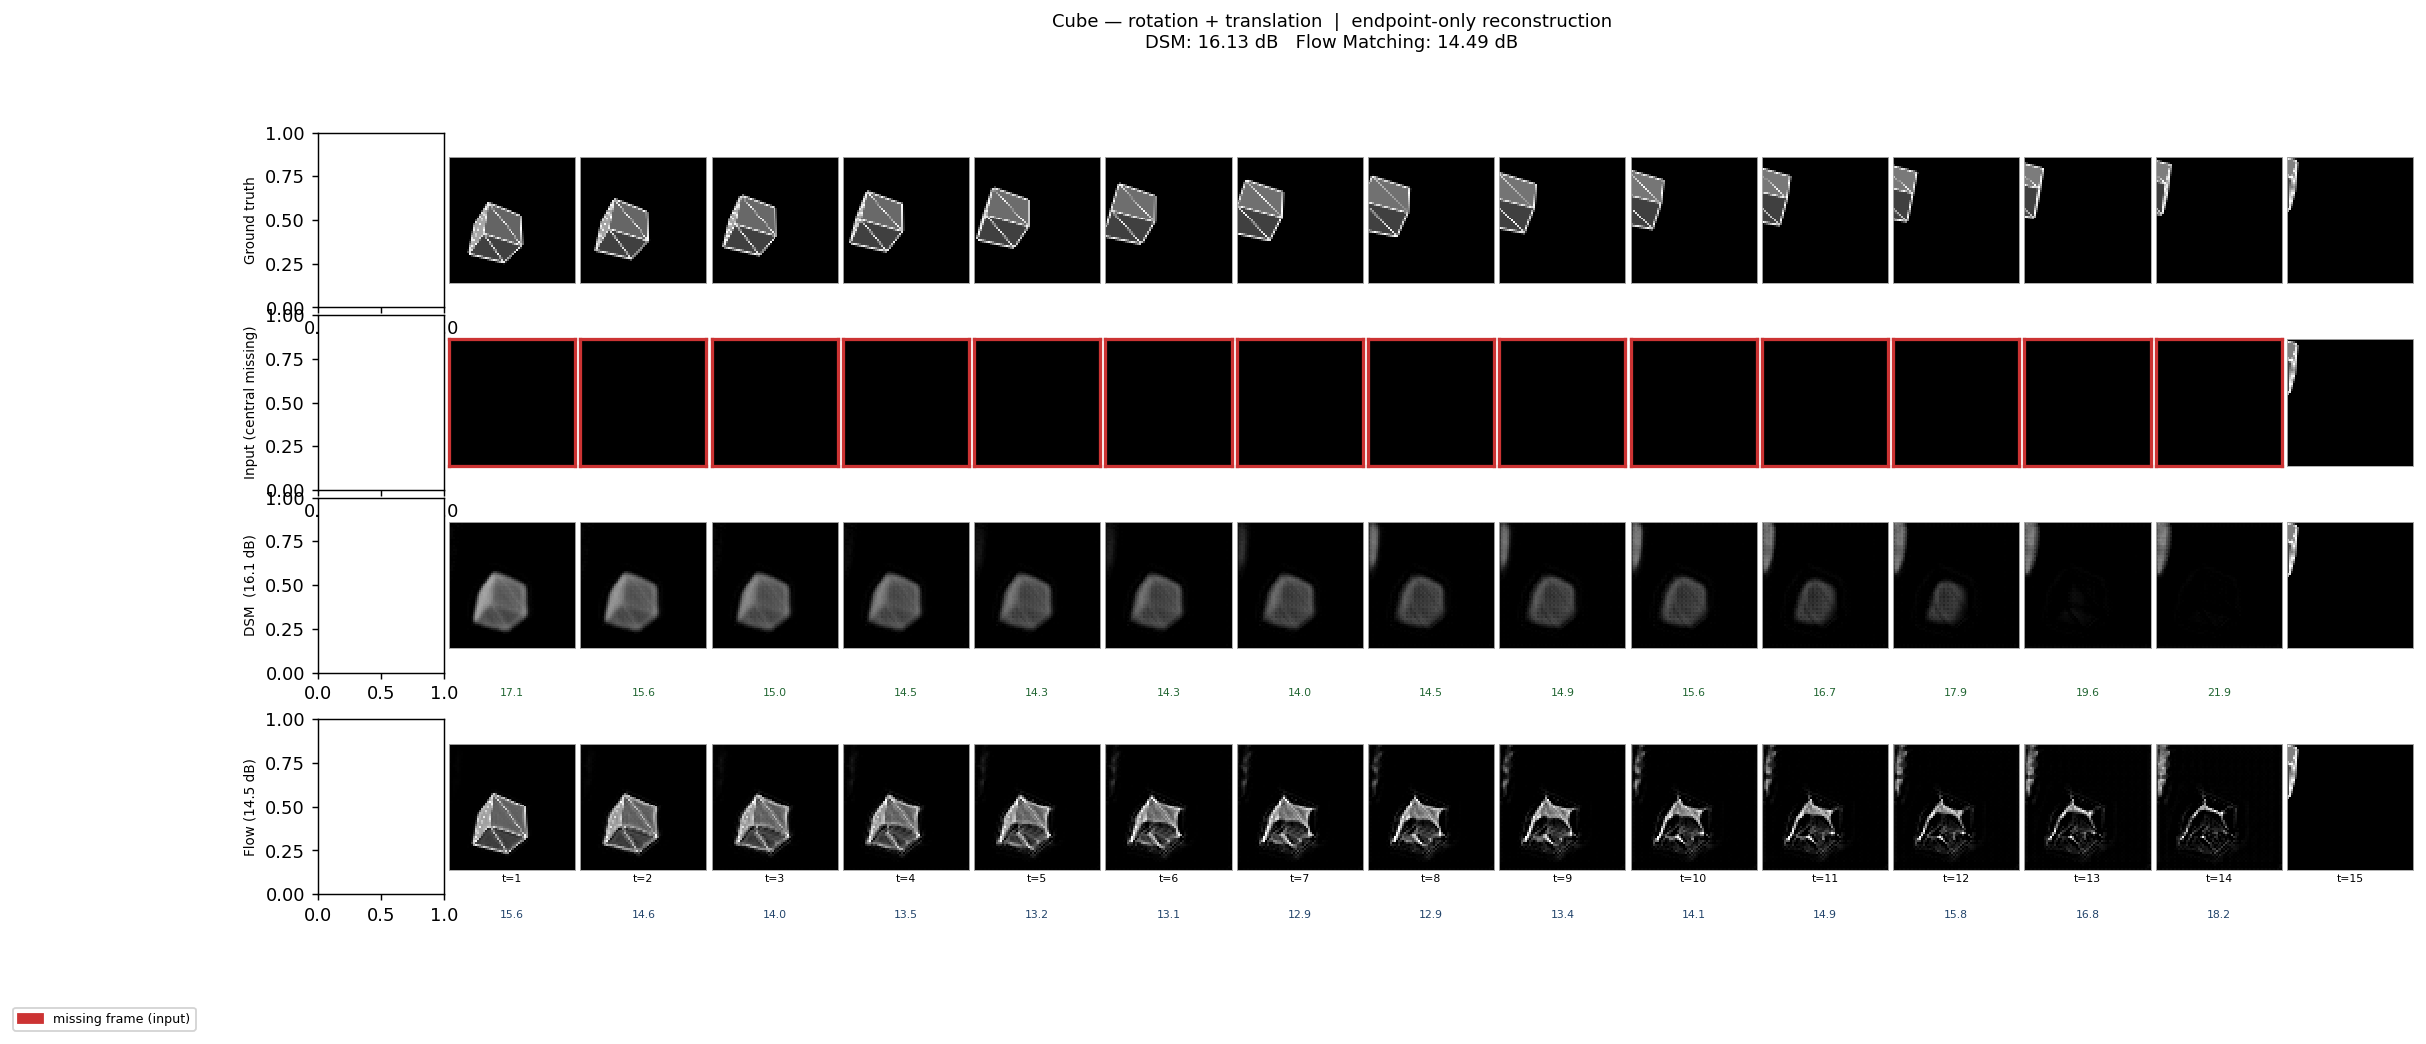
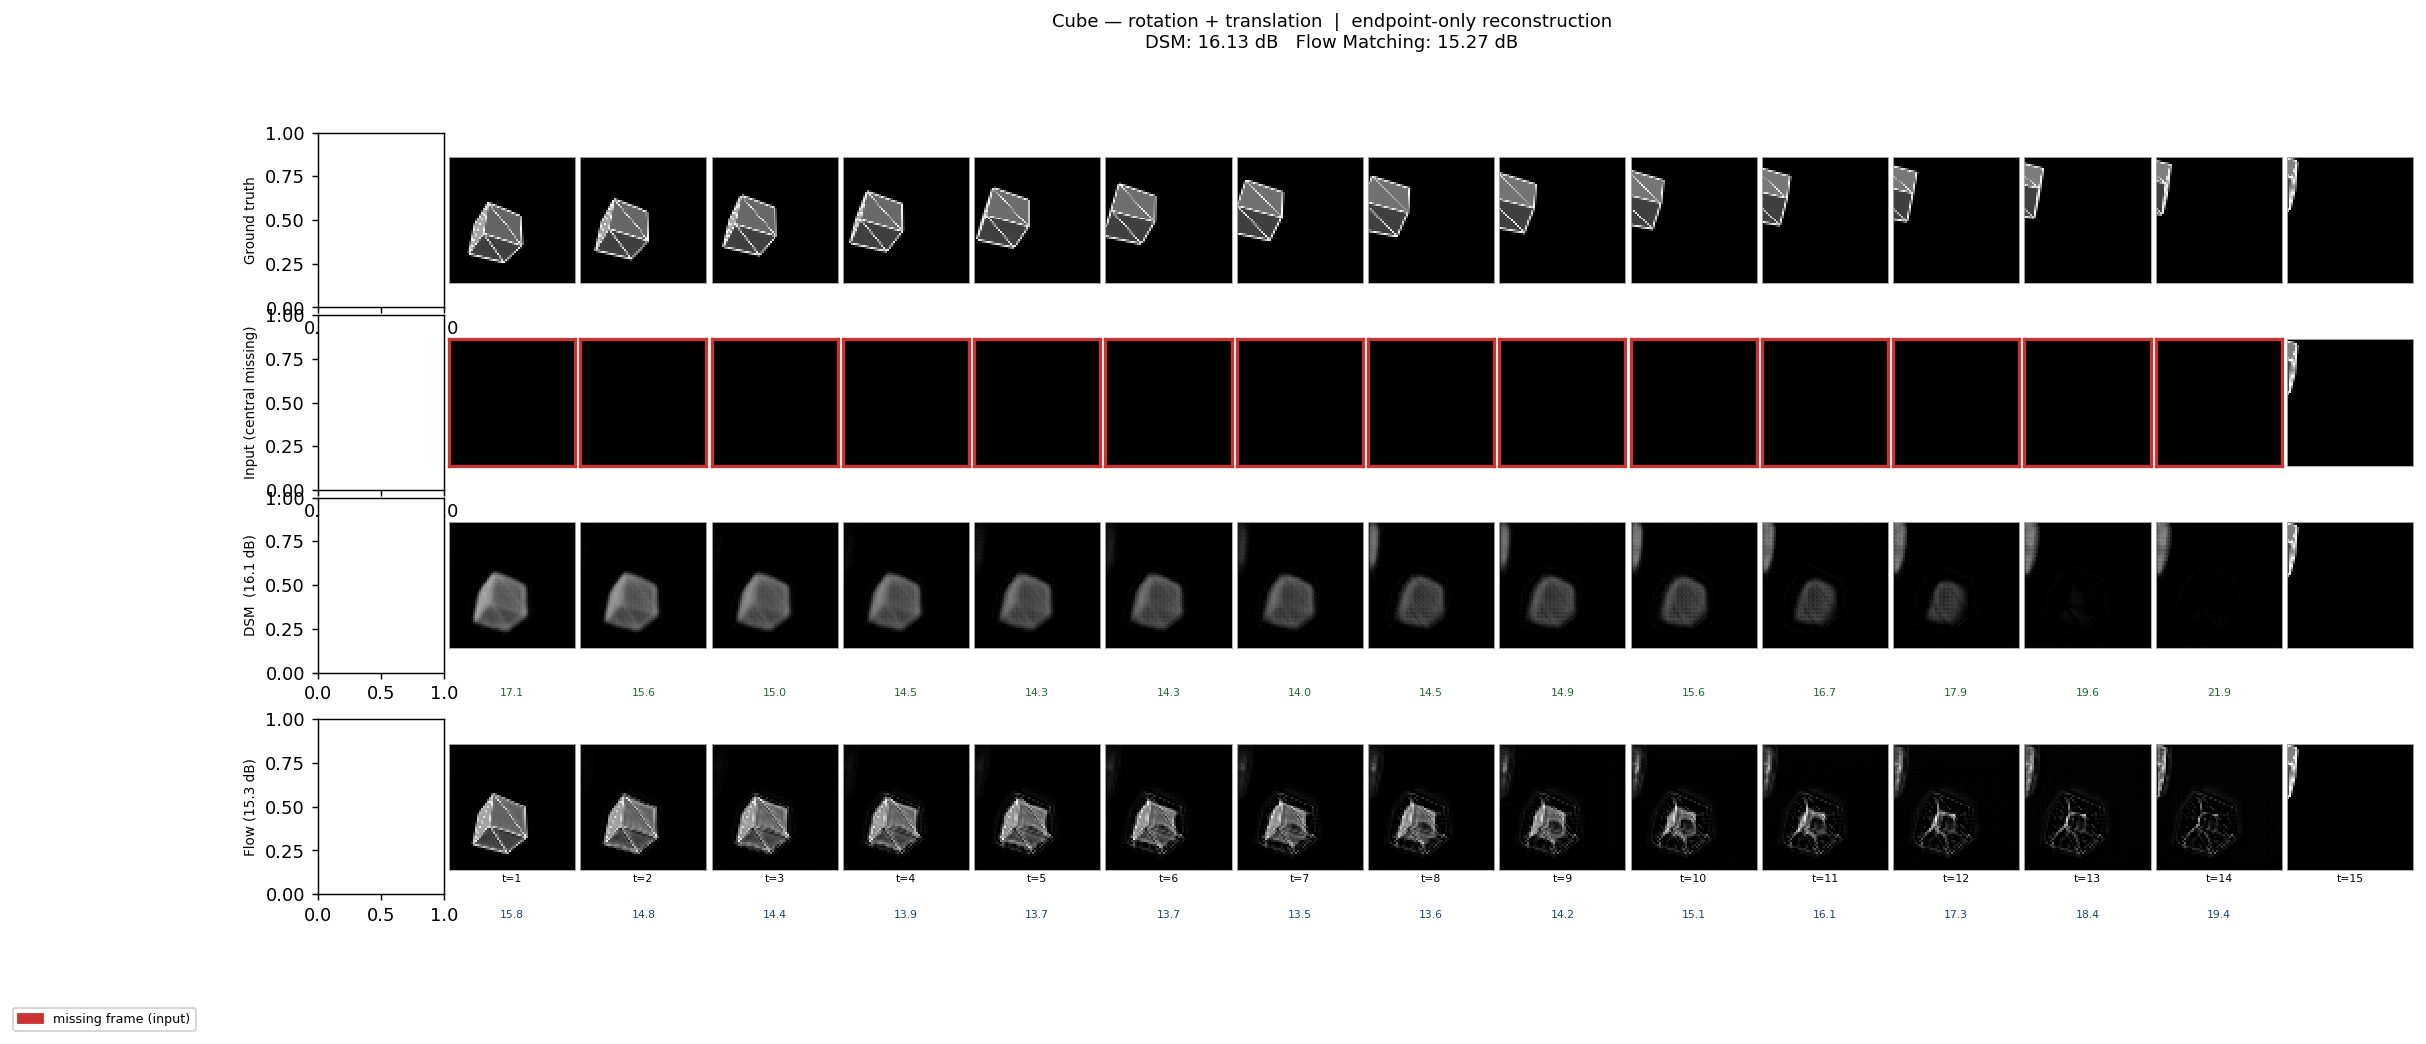
Add curriculum to flow matching for fair comparison with DSM
Same settings as experiment_grid.py best variant:
  - sigma_max cosine annealing 0.15→1.5 over first 67% of epochs
  - missing_frac=0.25: 25% of each batch uses x_t=0 so the model must
    predict the velocity from ctx_first, ctx_last, and t only

Results on same 10-sequence eval set (seed=1000):
  DSM  cosine+gaussian + curriculum:  22.10 dB
  Flow cosine curriculum + missing:   20.88 dB  (+0.27 vs no curriculum)

https://claude.ai/code/session_01CpA6B898Laq8kMcJpipdAc

diff --git a/flow_train.py b/flow_train.py
@@ -1,34 +1,45 @@
 """
-Train a FlowNet on cube rotation+translation sequences and compare it to
-the best DSM denoiser from experiment_grid.py.
+Train a FlowNet with the same curriculum as the best DSM variant for a fair
+head-to-head comparison.
 
-Flow matching trains the model to predict the velocity field
-  v_θ(x_t, t; ctx_first, ctx_last) ≈ dx/dt
-at every point in (image × time) space.  At inference the ODE is integrated
-with the Heun method to reconstruct all intermediate frames from the two
-endpoint frames only.
+Curriculum (identical settings to experiment_grid.py / cosine+gaussian DSM):
+  sigma_max cosine annealing  0.15 → 1.5  over first 67% of epochs
+  missing_frac = 0.25  (25% of each batch uses zeroed x_t, same as DSM)
+
+Flow matching learns the velocity field  v_θ(x_t, t; ctx_first, ctx_last)
+and integrates it with the Heun ODE solver at inference.
 
 Saves: flow_best.pt
 """
 
-import math
 import torch
 from torch.utils.data import DataLoader, Dataset
 from tqdm import tqdm
 
 from motion_render import ApparentMotionDataset, sequence_collate_fn
-from motion_flow import FlowNet, train_flow_epoch, val_flow_epoch, reconstruct_flow_trajectory, compute_psnr
+from motion_flow import (
+    FlowNet,
+    train_flow_epoch,
+    val_flow_epoch,
+    reconstruct_flow_trajectory,
+    compute_psnr,
+    sigma_max_schedule,
+)
 
-# ── Config ────────────────────────────────────────────────────────────────────
-N_TRAIN      = 200
-N_VAL        = 40
-N_TRAJ_EVAL  = 10
-T            = 16
-BATCH_SIZE   = 8
-N_EPOCHS     = 20
-LR           = 1e-3
-GRAD_CLIP    = 1.0
-BEST_CKPT    = "flow_best.pt"
+# ── Config (mirrors experiment_grid.py) ───────────────────────────────────────
+N_TRAIN       = 200
+N_VAL         = 40
+N_TRAJ_EVAL   = 10
+T             = 16
+BATCH_SIZE    = 8
+N_EPOCHS      = 20
+LR            = 1e-3
+GRAD_CLIP     = 1.0
+SIGMA_START   = 0.15
+SIGMA_TARGET  = 1.5
+WARMUP_FRAC   = 0.67
+MISSING_FRAC  = 0.25
+BEST_CKPT     = "flow_best.pt"
 
 
 class PrerenderedDataset(Dataset):
@@ -54,7 +65,8 @@ def main():
     device = torch.device("cuda" if torch.cuda.is_available() else "cpu")
     print(f"Device: {device}")
     print(f"Shape: cube | Motion: both (rotation+translation)")
-    print(f"N_TRAIN={N_TRAIN}, N_EPOCHS={N_EPOCHS}\n")
+    print(f"N_TRAIN={N_TRAIN}, N_EPOCHS={N_EPOCHS}, missing_frac={MISSING_FRAC}")
+    print(f"Curriculum: σ_max cosine {SIGMA_START}→{SIGMA_TARGET} over {int(N_EPOCHS*WARMUP_FRAC)} epochs\n")
 
     print("Pre-rendering training data...")
     ds_train = ApparentMotionDataset(
@@ -93,7 +105,7 @@ def main():
 
     model = FlowNet(base_ch=32, emb_dim=128).to(device)
     n_params = sum(p.numel() for p in model.parameters() if p.requires_grad)
-    print(f"\nFlowNet parameters: {n_params:,}")
+    print(f"\nFlowNet parameters: {n_params:,}\n")
 
     optimizer = torch.optim.Adam(model.parameters(), lr=LR)
     scheduler = torch.optim.lr_scheduler.CosineAnnealingLR(
@@ -103,9 +115,17 @@ def main():
     best_val_loss = float("inf")
     best_state    = None
 
-    print()
     for epoch in range(1, N_EPOCHS + 1):
-        tr_loss = train_flow_epoch(model, train_loader, optimizer, device, grad_clip=GRAD_CLIP)
+        smax = sigma_max_schedule(
+            epoch, N_EPOCHS, SIGMA_START, SIGMA_TARGET,
+            schedule="cosine", warmup_frac=WARMUP_FRAC,
+        )
+        tr_loss = train_flow_epoch(
+            model, train_loader, optimizer, device,
+            grad_clip=GRAD_CLIP,
+            sigma_max=smax,
+            missing_frac=MISSING_FRAC,
+        )
         val_loss, val_psnr = val_flow_epoch(model, val_loader, device)
         scheduler.step()
 
@@ -116,7 +136,7 @@ def main():
             marker = " *"
 
         print(
-            f"  ep {epoch:02d}/{N_EPOCHS} | "
+            f"  ep {epoch:02d}/{N_EPOCHS} | σ_max={smax:.3f} | "
             f"tr={tr_loss:.4f} | val={val_loss:.4f} | step-PSNR={val_psnr:.1f} dB{marker}"
         )
 
@@ -138,7 +158,7 @@ def main():
     dsm_ckpt = "denoiser_best.pt"
     try:
         from motion_denoise import CondUNet, reconstruct_trajectory
-        from motion_denoise.training import compute_psnr as dsm_psnr
+        from motion_denoise.training import compute_psnr as _dsm_psnr
 
         ckpt_dsm  = torch.load(dsm_ckpt, map_location=device)
         dsm_model = CondUNet(base_ch=32, emb_dim=128).to(device)
@@ -149,15 +169,15 @@ def main():
         for sample in traj_data[:N_TRAJ_EVAL]:
             targets = sample["targets"]
             recon   = reconstruct_trajectory(dsm_model, targets[0], targets[-1], T, device=device)
-            dsm_traj_psnrs.append(dsm_psnr(recon[1:-1], targets[1:-1]))
+            dsm_traj_psnrs.append(_dsm_psnr(recon[1:-1], targets[1:-1]))
         dsm_psnr_val = sum(dsm_traj_psnrs) / len(dsm_traj_psnrs)
 
-        print(f"\n{'='*50}")
-        print(f"{'Method':<30} {'traj PSNR':>10}")
-        print(f"{'-'*50}")
-        print(f"  {'DSM (cosine+gaussian)':<28} {dsm_psnr_val:>9.2f} dB")
-        print(f"  {'Flow Matching (Heun ODE)':<28} {traj_psnr:>9.2f} dB")
-        print(f"{'='*50}")
+        print(f"\n{'='*56}")
+        print(f"{'Method':<36} {'traj PSNR':>10}")
+        print(f"{'-'*56}")
+        print(f"  {'DSM  cosine+gaussian  (curriculum)':<34} {dsm_psnr_val:>9.2f} dB")
+        print(f"  {'Flow cosine curriculum + missing_frac':<34} {traj_psnr:>9.2f} dB")
+        print(f"{'='*56}")
     except FileNotFoundError:
         print(f"\n(Skipping DSM comparison — {dsm_ckpt} not found)")
 

diff --git a/motion_flow/flow_training.py b/motion_flow/flow_training.py
@@ -11,8 +11,14 @@ central finite-difference approximation of dx/dt:
 
 The model learns  v_θ(x_t, t/(T-1), ctx_first, ctx_last) ≈ v*(t).
 
-This directly supervises the tangent vector of the true trajectory at each
-point in (image × time) space — the "flow field in time" interpretation.
+Curriculum (mirrors the DSM curriculum in motion_denoise/training.py):
+  sigma_max   – log-uniform noise added to x_t, annealing from a small value
+                to sigma_max; simulates ODE drift from the GT trajectory.
+  missing_frac – fraction of each batch where x_t is replaced with zeros,
+                 exactly matching the all-missing inference scenario.
+                 The velocity target is unchanged (still the GT FD velocity),
+                 so the model learns to predict correct velocities even when it
+                 cannot see x_t and must rely on ctx_first, ctx_last, and t.
 """
 
 import math
@@ -22,7 +28,31 @@ from torch import Tensor
 from torch.utils.data import DataLoader
 
 
-def flow_matching_loss(model, batch: dict, device: torch.device) -> Tensor:
+def sigma_max_schedule(
+    epoch: int,
+    total_epochs: int,
+    sigma_start: float = 0.15,
+    sigma_target: float = 1.5,
+    schedule: str = "cosine",
+    warmup_frac: float = 0.67,
+) -> float:
+    warmup = max(1, int(total_epochs * warmup_frac))
+    t = min(epoch / warmup, 1.0)
+    if schedule == "cosine":
+        t = (1.0 - math.cos(math.pi * t)) / 2.0
+    elif schedule == "exp":
+        t = (math.exp(t) - 1.0) / (math.e - 1.0)
+    return sigma_start + (sigma_target - sigma_start) * t
+
+
+def flow_matching_loss(
+    model,
+    batch: dict,
+    device: torch.device,
+    sigma_min: float = 0.01,
+    sigma_max: float = 0.0,
+    missing_frac: float = 0.0,
+) -> Tensor:
     targets = batch["targets"].to(device)   # [B, T, 1, H, W]
     B, T = targets.shape[:2]
     assert T >= 3, f"T must be >= 3, got {T}"
@@ -38,11 +68,30 @@ def flow_matching_loss(model, batch: dict, device: torch.device) -> Tensor:
     x_prev = targets[torch.arange(B), t_idx - 1]
     x_next = targets[torch.arange(B), t_idx + 1]
 
+    # Curriculum noise on x_t: simulates ODE state deviating from GT trajectory
+    if sigma_max > 0.0:
+        log_sigma = (
+            torch.rand(B, device=device) * (math.log(sigma_max) - math.log(sigma_min))
+            + math.log(sigma_min)
+        )
+        sigma = torch.exp(log_sigma)
+        x_t_input = x_t + sigma[:, None, None, None] * torch.randn_like(x_t)
+    else:
+        x_t_input = x_t.clone()
+
+    # Explicit missing-frame batches: zero out x_t so the model must reconstruct
+    # velocity from ctx_first, ctx_last, and t alone
+    if missing_frac > 0.0:
+        n_missing = max(1, int(B * missing_frac))
+        miss_idx  = torch.randperm(B, device=device)[:n_missing]
+        x_t_input = x_t_input.clone()
+        x_t_input[miss_idx] = 0.0
+
     # Central FD velocity; dt_norm = 1/(T-1)
     dt_norm  = 1.0 / (T - 1)
     v_target = (x_next - x_prev) / (2.0 * dt_norm)         # [B, 1, H, W]
 
-    v_pred = model(x_t, t_norm, ctx_first, ctx_last)
+    v_pred = model(x_t_input, t_norm, ctx_first, ctx_last)
     return F.mse_loss(v_pred, v_target)
 
 
@@ -59,12 +108,14 @@ def train_flow_epoch(
     optimizer: torch.optim.Optimizer,
     device: torch.device,
     grad_clip: float = 1.0,
+    sigma_max: float = 0.0,
+    missing_frac: float = 0.0,
 ) -> float:
     model.train()
     total = 0.0
     for batch in loader:
         optimizer.zero_grad()
-        loss = flow_matching_loss(model, batch, device)
+        loss = flow_matching_loss(model, batch, device, sigma_max=sigma_max, missing_frac=missing_frac)
         loss.backward()
         torch.nn.utils.clip_grad_norm_(model.parameters(), grad_clip)
         optimizer.step()

diff --git a/motion_flow/__init__.py b/motion_flow/__init__.py
@@ -1,5 +1,5 @@
 from .flow_net import FlowNet
-from .flow_training import flow_matching_loss, train_flow_epoch, val_flow_epoch, compute_psnr
+from .flow_training import flow_matching_loss, train_flow_epoch, val_flow_epoch, compute_psnr, sigma_max_schedule
 from .flow_inference import reconstruct_flow_trajectory
 
 __all__ = [
@@ -8,5 +8,6 @@ __all__ = [
     "train_flow_epoch",
     "val_flow_epoch",
     "compute_psnr",
+    "sigma_max_schedule",
     "reconstruct_flow_trajectory",
 ]